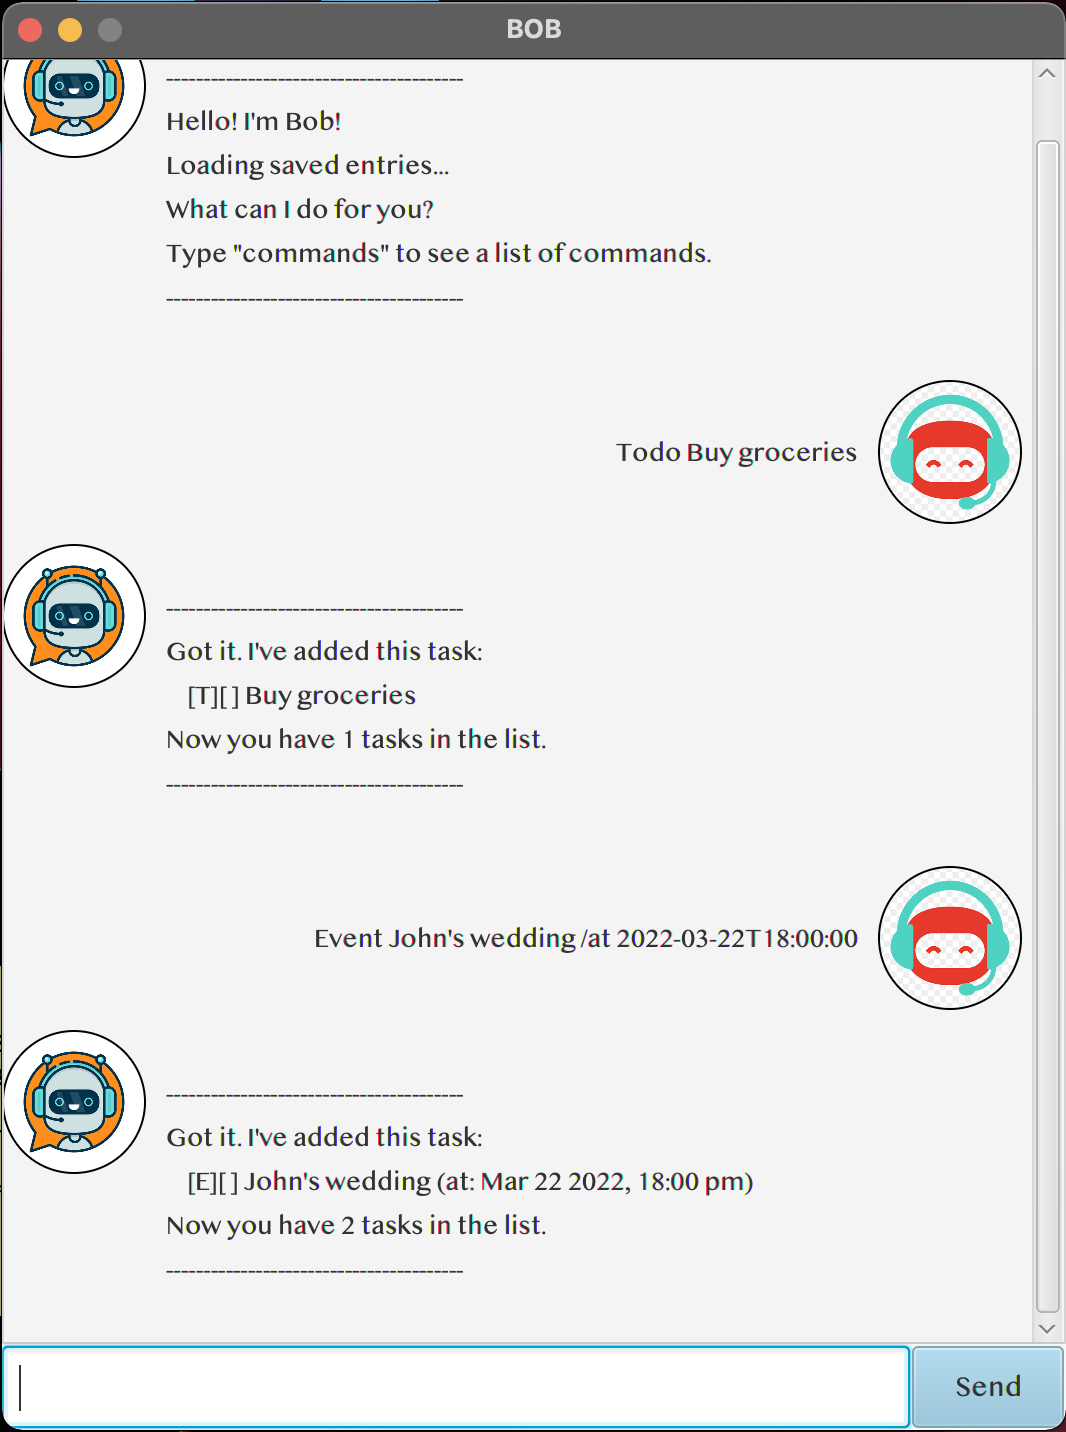
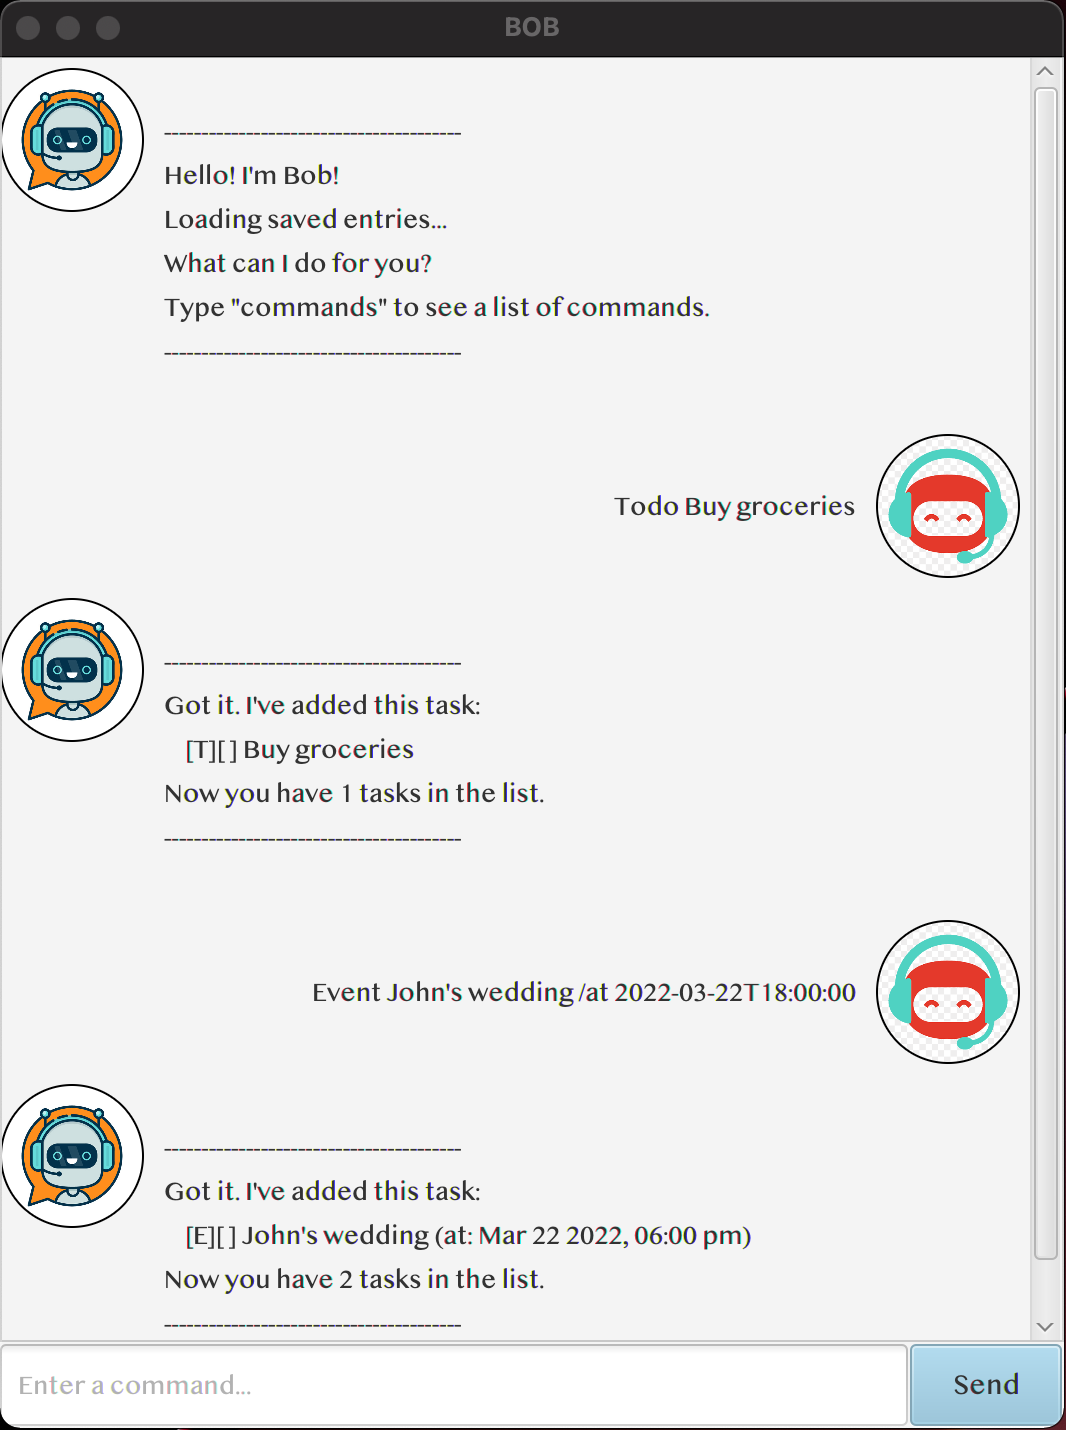
Fix bugs, update Ui.png and improve naming convention

Changed region(s): [[0.0, 0.0, 1.0, 1.0], [0.5572, 0.2154, 0.6501, 0.2462], [0.8977, 0.9538, 0.9597, 0.9846]]

diff --git a/src/main/java/bob/Parser.java b/src/main/java/bob/Parser.java
@@ -19,7 +19,7 @@ public class Parser {
         assert tasks != null;
         try {
             String command = userInput.split(" ")[0].strip().toLowerCase();
-            boolean tasksIsDiff = false;
+            boolean isTasksDiff = false;
 
             switch (command) {
             case "list":
@@ -31,26 +31,26 @@ public class Parser {
                 //fallthrough
             case "delete":
                 response = update(command, userInput, tasks);
-                tasksIsDiff = true;
+                isTasksDiff = true;
                 break;
             case "todo":
                 response = newToDo(userInput, tasks);
-                tasksIsDiff = true;
+                isTasksDiff = true;
                 break;
             case "deadline":
                 response = newDeadline(userInput, tasks);
-                tasksIsDiff = true;
+                isTasksDiff = true;
                 break;
             case "event":
                 response = newEvent(userInput, tasks);
-                tasksIsDiff = true;
+                isTasksDiff = true;
                 break;
             case "find":
                 response = find(userInput, tasks);
                 break;
             case "archive":
                 response = archive(tasks);
-                tasksIsDiff = true;
+                isTasksDiff = true;
                 break;
             case "commands":
                 response = getCommands();
@@ -59,7 +59,7 @@ public class Parser {
                 response = Ui.invalidCommand(command);
             }
 
-            if (tasksIsDiff) {
+            if (isTasksDiff) {
                 assert storage != null;
                 storage.writeTaskListToFile(tasks);
             }

diff --git a/src/test/java/bob/DeadlineTest.java b/src/test/java/bob/DeadlineTest.java
@@ -6,7 +6,7 @@ import org.junit.jupiter.api.Assertions;
 import org.junit.jupiter.api.Test;
 
 public class DeadlineTest {
-    private static final String VALID_TIME = "2022-09-09T09:09:00";
+    private static final String VALID_TIME = "2022-09-09T23:09:00";
     private static final String INVALID_TIME = "invalid time";
     private static final String VALID_DESCRIPTION = "This is a valid description.";
     private static final String INVALID_DESCRIPTION = "";
@@ -42,8 +42,8 @@ public class DeadlineTest {
         Assertions.assertEquals(validTrueDeadline.generateSavedEntry(), validTrueDeadlineSavedEntry);
         Assertions.assertEquals(validFalseDeadline.generateSavedEntry(), validFalseDeadlineSavedEntry);
 
-        final String validTrueDeadlineToString = "[D][X] " + VALID_DESCRIPTION + " (by: Sep 9 2022, 09:09 am)";
-        final String validFalseDeadlineToString = "[D][ ] " + VALID_DESCRIPTION + " (by: Sep 9 2022, 09:09 am)";
+        final String validTrueDeadlineToString = "[D][X] " + VALID_DESCRIPTION + " (by: Sep 9 2022, 11:09 pm)";
+        final String validFalseDeadlineToString = "[D][ ] " + VALID_DESCRIPTION + " (by: Sep 9 2022, 11:09 pm)";
 
         Assertions.assertEquals(validTrueDeadline.toString(), validTrueDeadlineToString);
         Assertions.assertEquals(validFalseDeadline.toString(), validFalseDeadlineToString);

diff --git a/src/test/java/bob/EventTest.java b/src/test/java/bob/EventTest.java
@@ -6,7 +6,7 @@ import org.junit.jupiter.api.Assertions;
 import org.junit.jupiter.api.Test;
 
 public class EventTest {
-    private static final String VALID_TIME = "2022-09-09T09:09:00";
+    private static final String VALID_TIME = "2022-09-09T23:09:00";
     private static final String INVALID_TIME = "invalid time";
     private static final String VALID_DESCRIPTION = "This is a valid description.";
     private static final String INVALID_DESCRIPTION = "";
@@ -42,8 +42,8 @@ public class EventTest {
         Assertions.assertEquals(validTrueEvent.generateSavedEntry(), validTrueEventSavedEntry);
         Assertions.assertEquals(validFalseEvent.generateSavedEntry(), validFalseEventSavedEntry);
 
-        final String validTrueEventToString = "[E][X] " + VALID_DESCRIPTION + " (at: Sep 9 2022, 09:09 am)";
-        final String validFalseEventToString = "[E][ ] " + VALID_DESCRIPTION + " (at: Sep 9 2022, 09:09 am)";
+        final String validTrueEventToString = "[E][X] " + VALID_DESCRIPTION + " (at: Sep 9 2022, 11:09 pm)";
+        final String validFalseEventToString = "[E][ ] " + VALID_DESCRIPTION + " (at: Sep 9 2022, 11:09 pm)";
 
         Assertions.assertEquals(validTrueEvent.toString(), validTrueEventToString);
         Assertions.assertEquals(validFalseEvent.toString(), validFalseEventToString);

diff --git a/src/test/java/bob/ToDoTest.java b/src/test/java/bob/ToDoTest.java
@@ -4,7 +4,7 @@ import org.junit.jupiter.api.Assertions;
 import org.junit.jupiter.api.Test;
 
 public class ToDoTest {
-    private final String VALID_DESCRIPTION = "This is a valid ToDo instance.";
+    private static final String VALID_DESCRIPTION = "This is a valid ToDo instance.";
 
     @Test
     public void constructor_emptyDescription_throwsIllegalArgumentException() {

diff --git a/src/main/java/bob/Event.java b/src/main/java/bob/Event.java
@@ -54,6 +54,6 @@ public class Event extends bob.Task {
     @Override
     public String toString() {
         return String.format("[E]%s (at: %s)", super.toString(),
-                time.format(DateTimeFormatter.ofPattern("MMM d yyyy, HH:mm a")));
+                time.format(DateTimeFormatter.ofPattern("MMM d yyyy, hh:mm a")));
     }
 }

diff --git a/src/main/java/bob/Deadline.java b/src/main/java/bob/Deadline.java
@@ -53,6 +53,6 @@ public class Deadline extends bob.Task {
     @Override
     public String toString() {
         return String.format("[D]%s (by: %s)", super.toString(),
-                by.format(DateTimeFormatter.ofPattern("MMM d yyyy, HH:mm a")));
+                by.format(DateTimeFormatter.ofPattern("MMM d yyyy, hh:mm a")));
     }
 }
